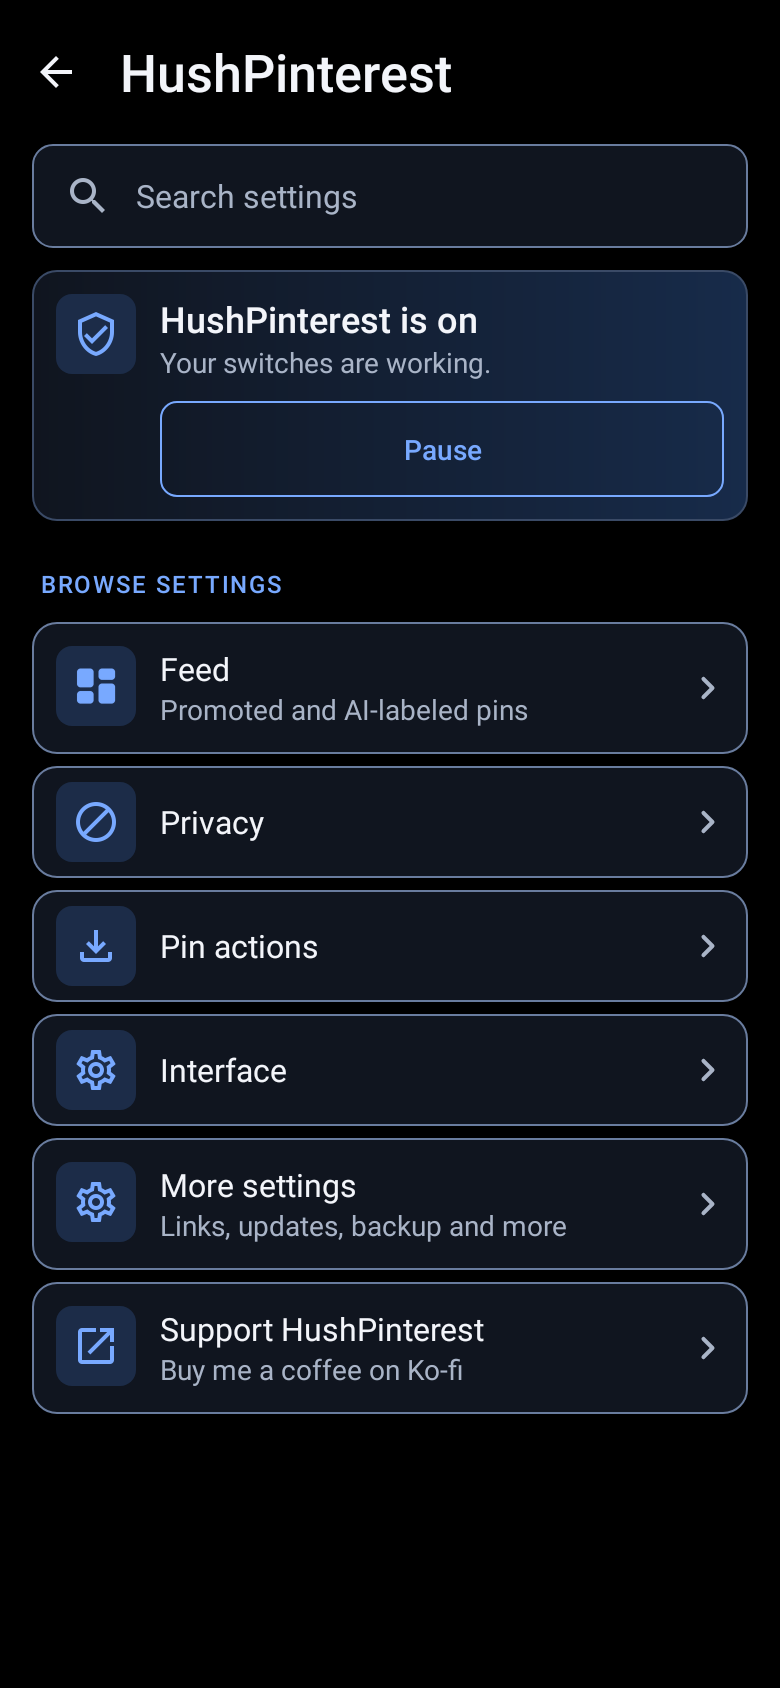
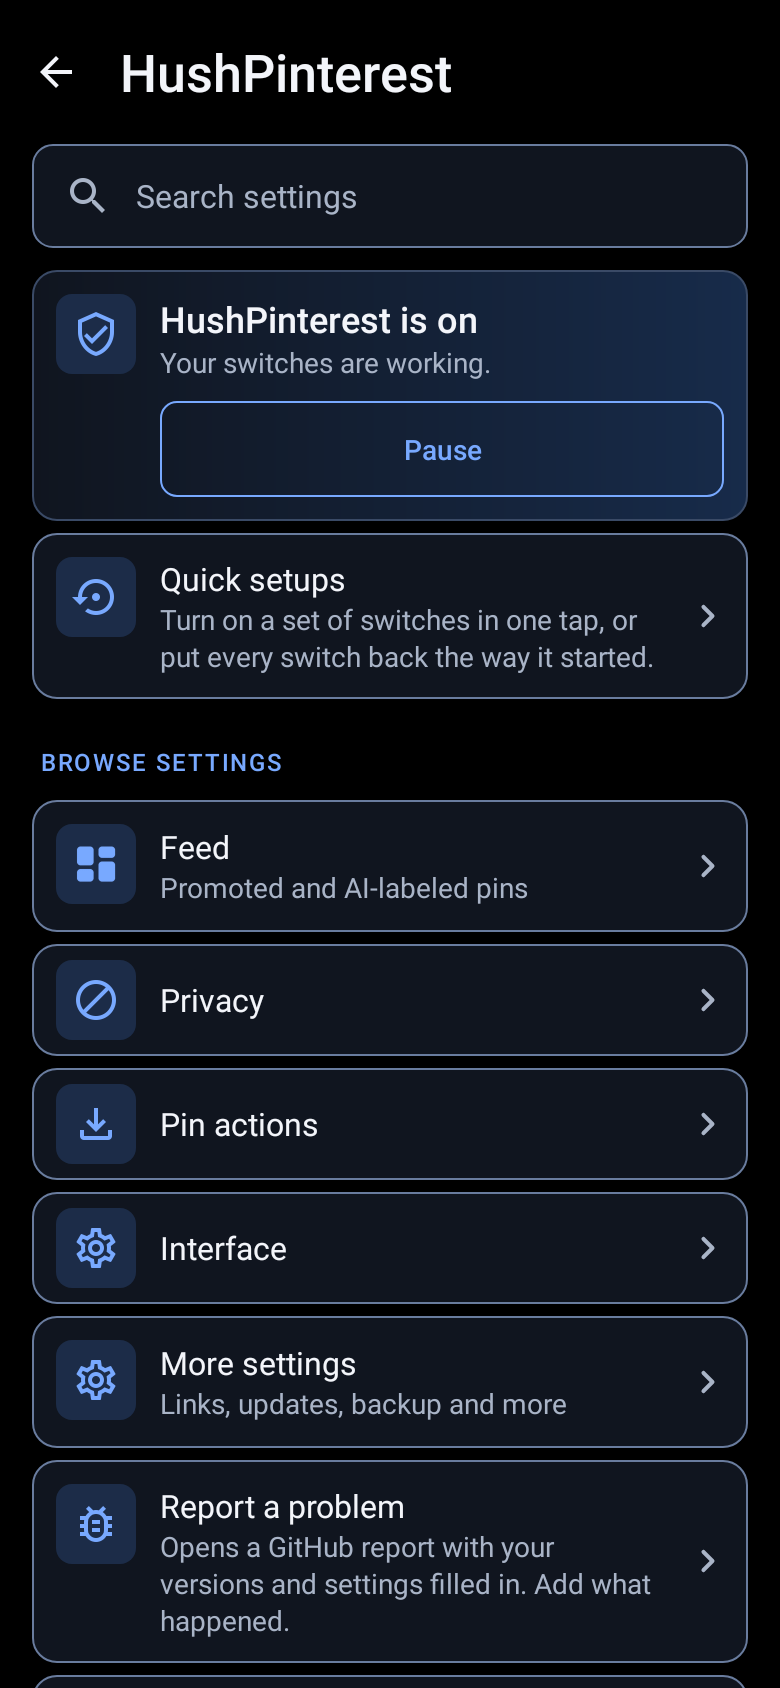
docs(readme): show Quick setups and Report a problem on the settings home screenshot
The picture still showed the home page before it gained those rows. It is
the Robolectric capture from the full run on 44fb933.

diff --git a/CHANGELOG.md b/CHANGELOG.md
@@ -10,7 +10,7 @@ Every HushPinterest release, newest first.
 * **Pinterest:** Report a problem sits just above Support HushPinterest on the settings home. It opens GitHub's bug form with your HushPinterest and Pinterest versions, your phone model, its Android version and the switches you have on already filled in, and leaves room for what happened and what you expected. Nothing is sent until you submit it on GitHub.
 * **Pinterest:** Quick setups on the settings home turns on the Quiet or Privacy switches in one tap, or puts every feature switch back the way it started. A message says how many settings it changed.
 * **Tooling:** Compiled APK checks cover settings requests delivered to Pinterest's home screen and reject a missing entry hook. Their small test APKs now include that activity too.
-* **Tooling:** The runtime reference now includes the original Pinterest 14.39.0 survey and four measurement intervals. It keeps those network counters and memory snapshots separate from the older 14.38.0 packet study. Four native settings screenshots were refreshed too.
+* **Tooling:** The runtime reference now includes the original Pinterest 14.39.0 survey and four measurement intervals. It keeps those network counters and memory snapshots separate from the older 14.38.0 packet study. Four native settings screenshots were refreshed too, and the README's settings home picture now shows Quick setups and Report a problem.
 * **Pinterest:** Settings search, buttons and choices have clearer focus outlines and consistent control borders. Back and Clear search also have labels when you hover or hold them.
 * **Pinterest:** Settings summaries are shorter, with the same restart and download limits explained in all five translations. Switches use squared corners, and Licenses and a no-change import preview close with Close.
 * **Pinterest:** Download board keeps its explanation above the choices, so large text doesn't squeeze out the actions. Download history explains why finished files can't be opened while downloads are off or paused, and no longer suggests getting a fresh link for a finished download.
